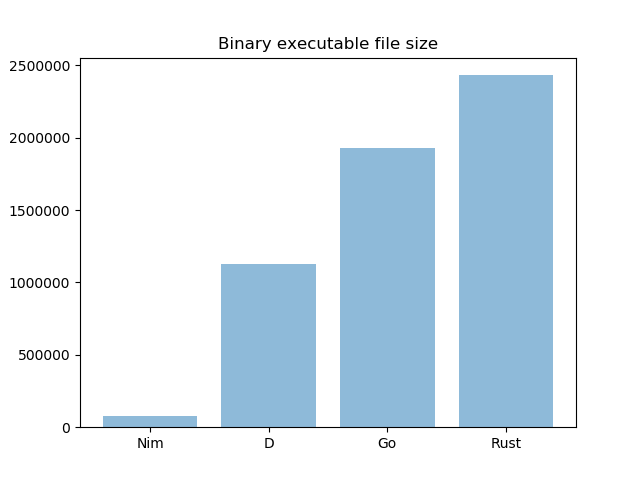
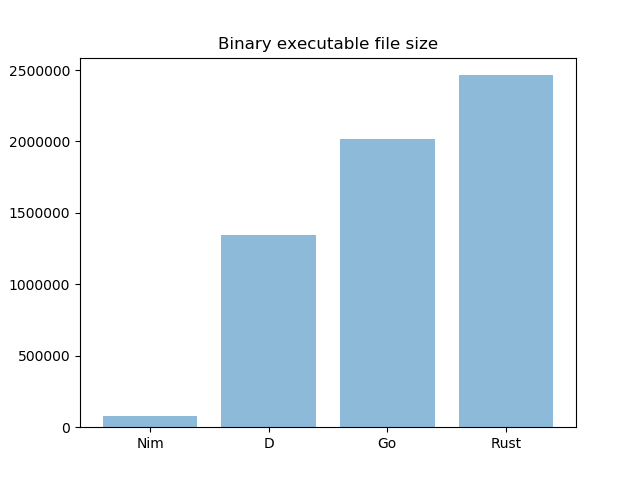
Change Rust compiler option to 02 (for releease)

diff --git a/draw.py b/draw.py
@@ -4,7 +4,7 @@ import matplotlib.pyplot as plt
 
 objects = ('Nim', 'D', 'Go', 'Rust')
 y_pos = np.arange(len(objects))
-performance = [77912,1125456,1928988,2431176]
+performance = [77944,1345624,2019395,2463888]
 
 plt.bar(y_pos, performance, align='center', alpha=0.5)
 plt.xticks(y_pos, objects)
